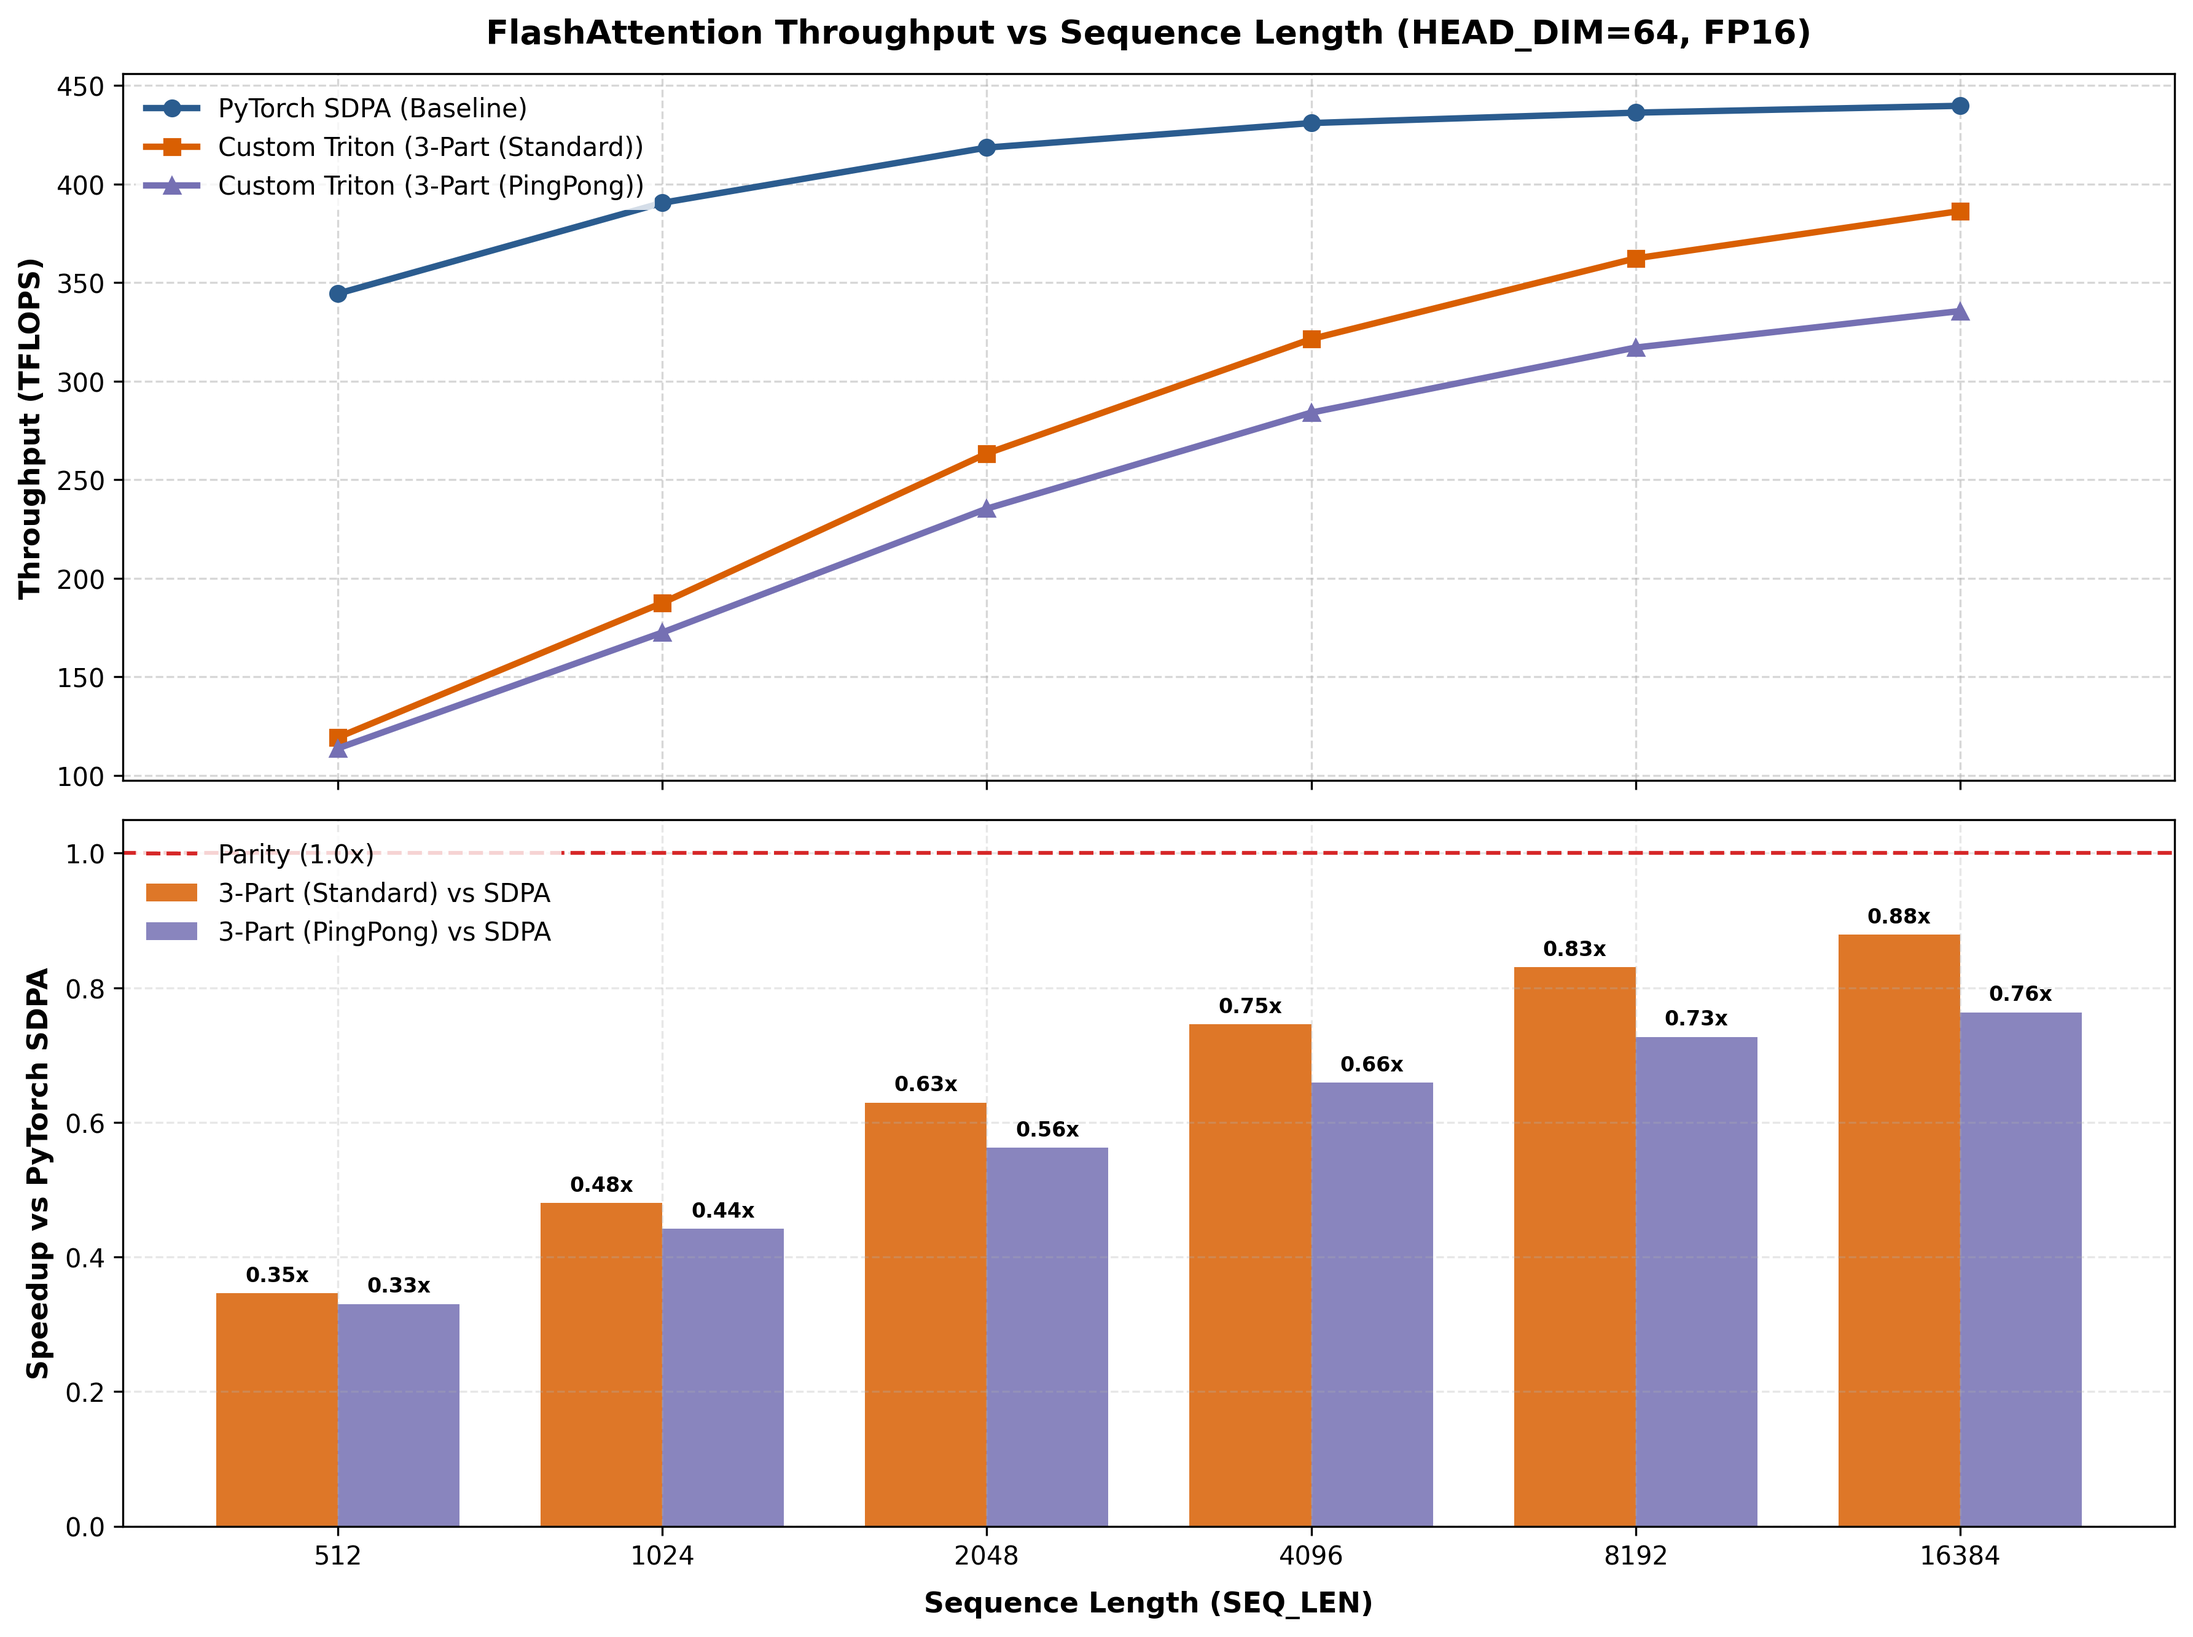
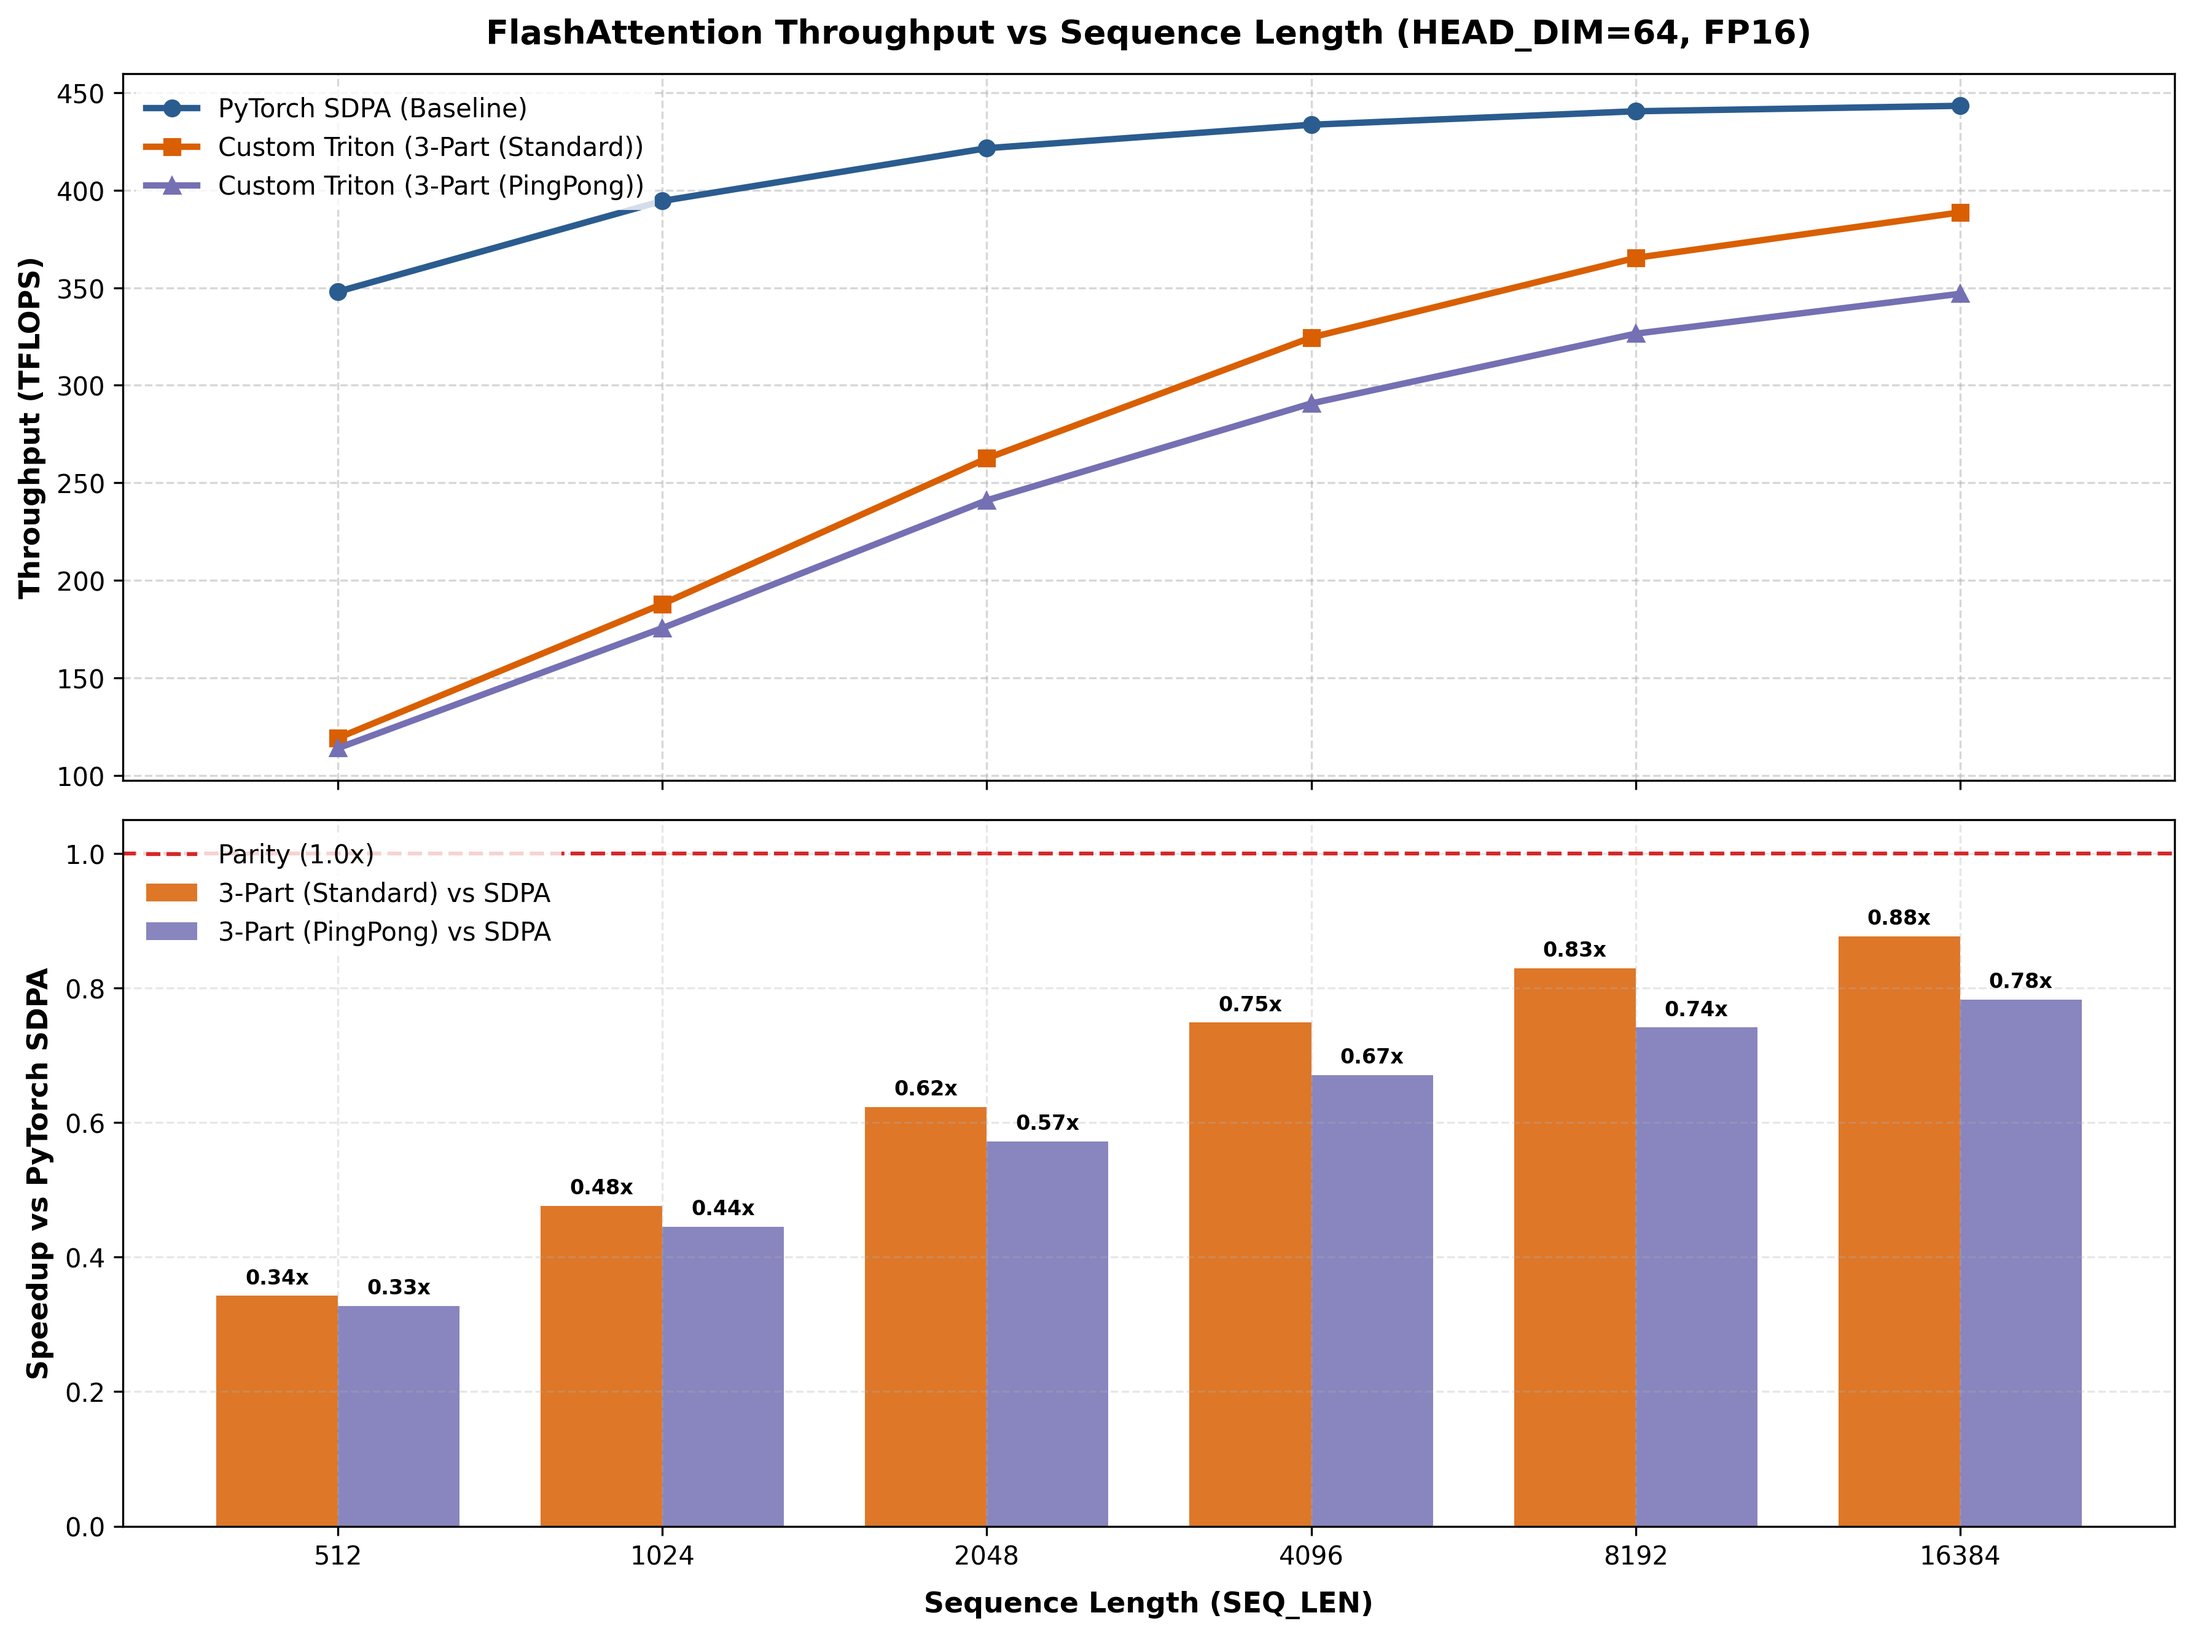
update better pingpong with benchmark and profile

diff --git a/attention/gluon_3_partition_pingpong.py b/attention/gluon_3_partition_pingpong.py
@@ -300,7 +300,7 @@ def fa3_consumer_partition(
             mma_o = mma_o.issue_async_mma(P_cur_permuted, p.v_bufs.index(kv_state.index))
 
             # 3. Wait for S_next WGMMA
-            mma_s = mma_s.wait_num_outstanding(0)
+            mma_s = mma_s.wait_num_outstanding(1)
             S_tile = mma_s.take_result()[0]
             S_tile = S_tile * sm_scale_log2
 
@@ -320,7 +320,7 @@ def fa3_consumer_partition(
             # 5. Wait for O += P_cur * V_{j-1} WGMMA & rescale O_i
             mma_o = mma_o.wait_num_outstanding(0)
             pv_tile = mma_o.take_result()[0]
-            o_acc = o_acc * rescale_factor_m[:, None] + pv_tile
+            o_acc = (o_acc + pv_tile) * rescale_factor_m[:, None]
             o_acc = gl.cast(o_acc, dtype)
 
             # 6. Release KV buffer stage j-1
@@ -653,10 +653,10 @@ if __name__ == "__main__":
         
     BATCH, NUM_HEADS = 2, 16
     sizes = [
-        # (4096, 128),
-        (256, 64),
-        (512, 128),
-        (8192, 256)
+        (4096, 128),
+        # (256, 64),
+        # (512, 128),
+        # (8192, 256)
     ]
     
     torch.set_printoptions(profile="full")
